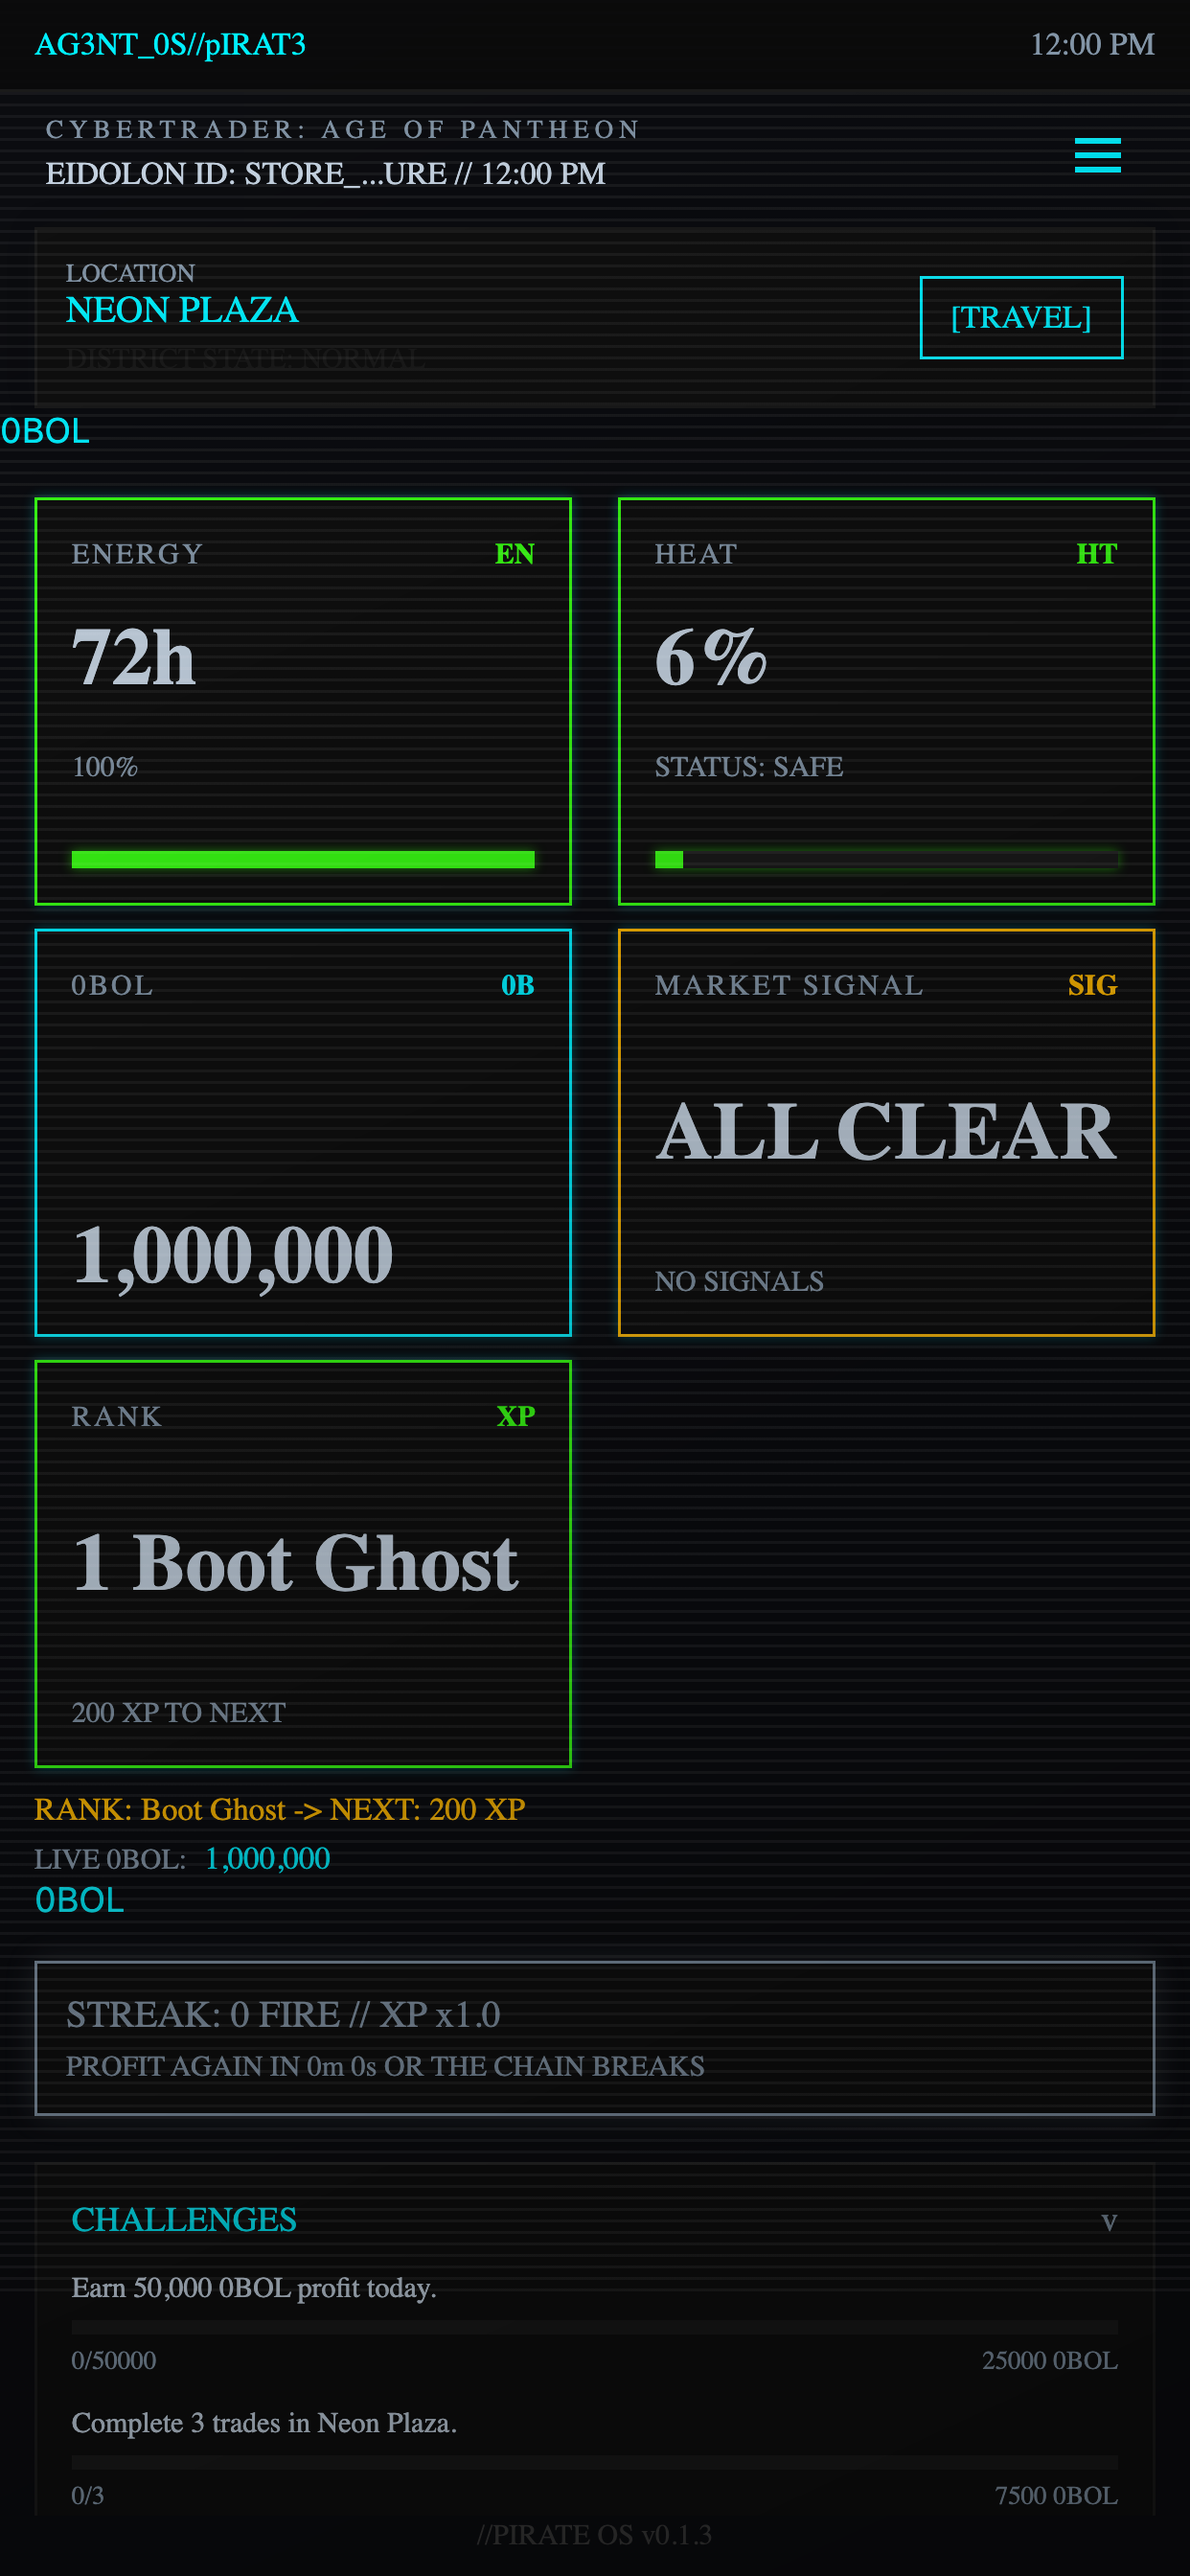
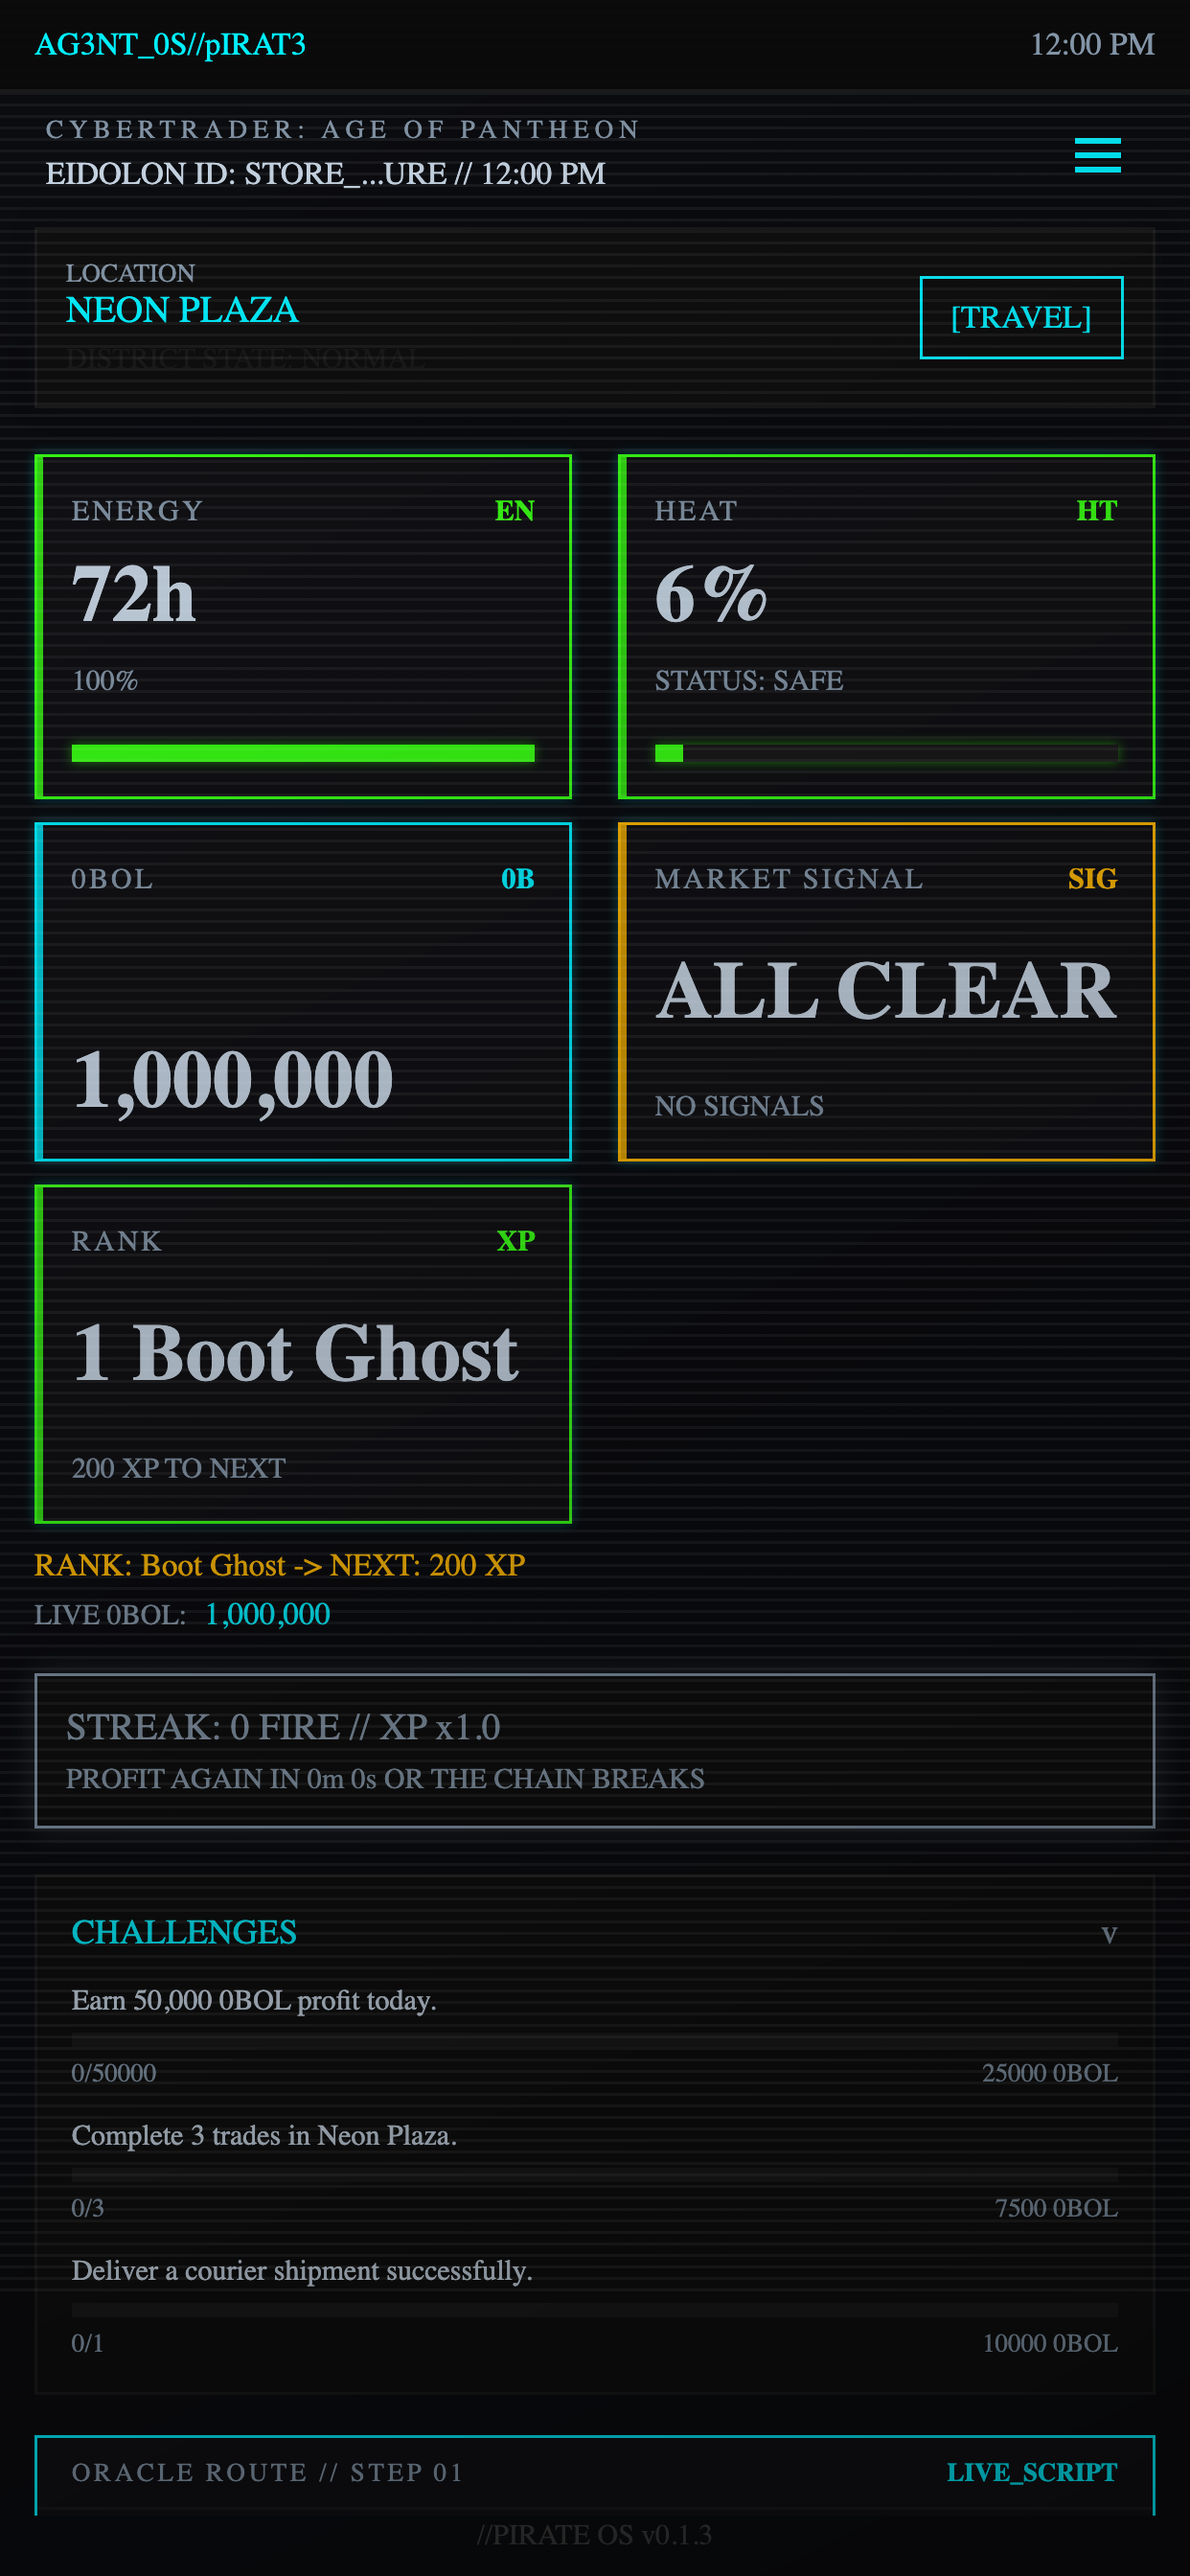
zoro-p0-002 zoro: approve store media direction

diff --git a/docs/release/zoro-p0-002-store-media-approval.md b/docs/release/zoro-p0-002-store-media-approval.md
@@ -1,0 +1,77 @@
+# zoro-p0-002 - Store Media Direction Approval
+
+Date: 2026-04-29
+Owner: Zoro
+
+## Scope
+
+This note completes `zoro-p0-002` from the Dev Lab App Store readiness task map: approve the current App Store screenshot shot list, preview story direction, and store-page mood for autonomous iteration.
+
+This is not a final store-submission package. It is the creative lock that lets Reel, Palette, Zara, and Zyra keep generating screenshots and preview-video cuts without waiting for human taste approval. Account-owner credentials, final legal declarations, public privacy policy publication, native store screenshots, and final App Store / Play Store submission remain separate Gate C items.
+
+Runtime code was not changed. The existing screenshot capture command was rerun so the approved PNGs and `assets/provenance.json` match the current app output.
+
+## SuperDesign And Source Inputs
+
+- Design system: `.superdesign/design-system.md`
+- Init context: `.superdesign/init/components.md`, `.superdesign/init/layouts.md`, `.superdesign/init/routes.md`, `.superdesign/init/theme.md`, `.superdesign/init/pages.md`, and `.superdesign/init/extractable-components.md`
+- Screenshot preset draft: `https://p.superdesign.dev/draft/b11d6241-7779-4b80-bffb-846467843d92`
+- Reel preview storyboard: `docs/release/reel-p0-001-app-store-preview-storyboard.md`
+- Palette screenshot presets: `docs/release/palette-p1-003-screenshot-presets.md`
+- Asset provenance inventory: `assets/provenance.json`
+
+## Approved Screenshot Set
+
+The current portrait capture set is approved as the Gate C direction and shot list:
+
+| Shot | File | Approved role |
+| --- | --- | --- |
+| Home deck | `assets/screenshots/screenshot-home-idle.png` | Establishes `AG3NT_0S//pIRAT3`, Neon Plaza, Energy, Heat, 0BOL, rank, and live challenge pressure. |
+| Terminal ready | `assets/screenshots/screenshot-terminal-ready.png` | Shows S1LKROAD, starter `VBLM` guidance, Energy/Heat/0BOL telemetry, and the market list. |
+| Market overview | `assets/screenshots/screenshot-market-overview.png` | Confirms `/market` resolves into the same playable terminal market surface. |
+| Mission contacts | `assets/screenshots/screenshot-missions-list.png` | Shows AgentOS contract-gate progress, faction-flavored contacts, reputation, locked ranks, and archive state. |
+| Inventory | `assets/screenshots/screenshot-inventory-overview.png` | Shows storage and courier limits without personal data or wallet details. |
+| Profile | `assets/screenshots/screenshot-profile-overview.png` | Shows local cyberdeck identity, Pirate OS tier, rank, faction, and fictional 0BOL state. |
+
+Local verification confirms all six PNGs are `1242 x 2688`, matching the current portrait capture process from `npm run capture:screenshots`.
+
+## Preview Story Direction
+
+The Reel beat sheet is approved as the store-preview spine:
+
+1. Open on the Eidolon/Pantheon premise.
+2. Show local handle claim with no wallet requirement.
+3. Cut through AG3NT_0S boot handoff.
+4. Reach home deck and S1LKROAD within the first 10 seconds.
+5. Demonstrate real `VBLM` buy, wait-tick, and sell/profit gameplay.
+6. Close on missions, rank/profile, and cyberdeck identity rather than install or earnings claims.
+
+The mood target is a portrait-first cyberdeck game, not a finance dashboard. Captions and overlays should stay diegetic, short, and store-safe.
+
+## Approval Criteria
+
+- The screenshot shot list is locked around real app routes, not mockups.
+- The preview story reaches playable trading quickly and keeps real app UI as the dominant footage.
+- The store-page mood preserves the illegal Eidolon shard, PirateOS, S1LKROAD, Heat, Energy, 0BOL, and faction-progress identity.
+- The first-session `VBLM` loop remains understandable with audio muted.
+- LocalAuthority/no-wallet posture remains visible without over-explaining backend architecture.
+- No capture uses real-money, wallet, investment, cash-out, yield, prize, or regulated-market claims.
+- Screenshot files contain staged local data only; no debug UI, secrets, personal handles, or placeholder 1x1 images are present.
+
+## Remaining Gate C Work
+
+- Generate and validate the final 15-30 second App Store preview video cut.
+- Produce native-device screenshot evidence once the native QA host is available.
+- Publish or configure the public privacy policy URL.
+- Finalize App Privacy, Data Safety, age-rating, support URL, and account-owner declarations.
+- Keep `assets/provenance.json` green and resolve final source-rights/account-owner declarations before actual submission.
+
+## Validation
+
+- Read SuperDesign init and design-system context before this pass.
+- Verified screenshot dimensions with `sips -g pixelWidth -g pixelHeight`.
+- Reviewed all six committed screenshot PNGs directly.
+- Reviewed Reel and Palette release notes plus the current provenance inventory.
+- Reran `npm run capture:screenshots`; all six PNGs were regenerated at `1242 x 2688`.
+- Reran `npm run provenance:assets`; `npm run provenance:assets:check` confirms `assets/provenance.json` is current with 39 assets.
+- Documentation/design-context and capture-refresh pass only; no runtime code changed.

diff --git a/.superdesign/design-system.md b/.superdesign/design-system.md
@@ -124,6 +124,17 @@ SuperDesign project: `CyberTrader v6 screenshot preset capture`
 - `npm run capture:screenshots` builds the Expo web export, serves `dist/`, completes normal local-demo onboarding, and captures 1242 x 2688 PNGs from a 414 x 896 mobile viewport at 3x device scale.
 - Generated screenshots must stay free of debug UI, personal data, wallet prompts, placeholder copy, and out-of-brand color treatments before Palette/Zoro review.
 
+## Zoro P0 Store Media Direction
+
+Release note: `docs/release/zoro-p0-002-store-media-approval.md`.
+
+- The approved Gate C screenshot direction is the current six-route set: home deck, terminal ready, market overview, mission contacts, inventory, and profile.
+- The current captures are `1242 x 2688` portrait PNGs produced by the real app capture flow, not mockups or placeholder images.
+- The store-page mood is a portrait cyberdeck game: illegal Eidolon shard, PirateOS, S1LKROAD, Heat, Energy, fictional 0BOL, faction/progression hints, and LocalAuthority/no-wallet safety.
+- Reel's 30-second preview story is approved to open with the Eidolon/Pantheon hook, reach real app trading quickly, show `VBLM` buy/wait/sell gameplay, and end on missions/rank/profile identity.
+- Do not introduce finance-dashboard styling, device-hand footage, store badges, install CTAs, real-money claims, wallet prompts, investment/yield language, prize claims, or unapproved external media.
+- Final preview video, native-device screenshot evidence, public privacy policy URL, age-rating declarations, and account-owner store submissions remain Gate C follow-ups.
+
 ## Nyx/Vex P1 Tuned Strategy Guidance
 
 Release note: `docs/release/nyx-p1-002-strategy-guidance.md`.
